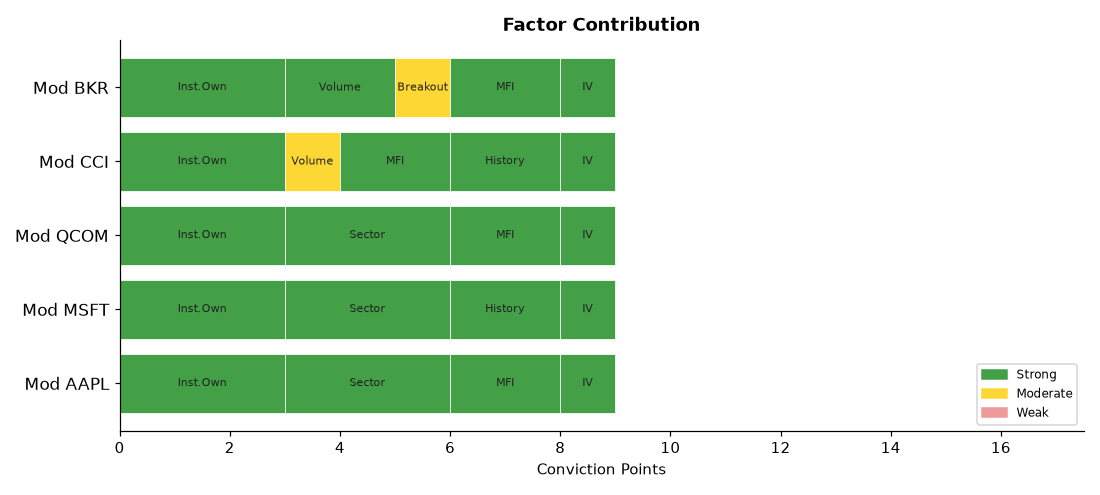
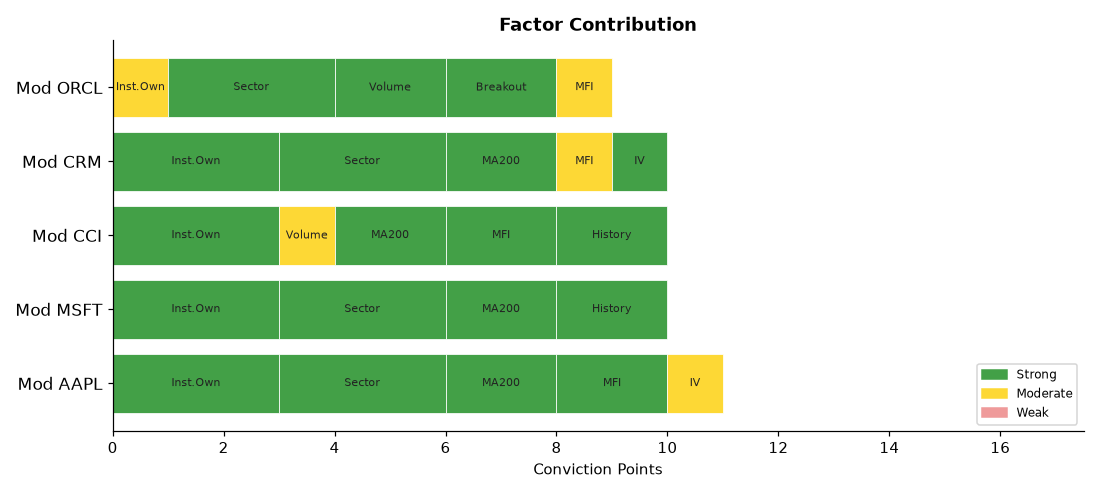
deploy: b7fadf5b06deb90e7ebb92f278722414bdd9750d

diff --git a/index.html b/index.html
@@ -4,7 +4,7 @@
   <meta charset="UTF-8">
   <meta name="viewport" content="width=device-width,initial-scale=1">
   <meta http-equiv="Cache-Control" content="no-cache,no-store,must-revalidate">
-  <title>Stock Breakout Screener — 2026-10-29 01:28</title>
+  <title>Stock Breakout Screener — 2026-10-29 05:08</title>
   <style>
     *{box-sizing:border-box;margin:0;padding:0}
     body{font-family:'Segoe UI',Arial,sans-serif;background:#f0f2f5;
@@ -34,7 +34,7 @@
 
 <div class="hdr">
   <h1>📈 Stock Breakout Screener</h1>
-  <p>Updated: 2026-10-29 01:28 UTC &nbsp;·&nbsp; Phase: Overnight &nbsp;·&nbsp;
+  <p>Updated: 2026-10-29 05:08 UTC &nbsp;·&nbsp; Phase: Pre-Market (before 9:30 AM ET) &nbsp;·&nbsp;
      129 stocks screened &nbsp;·&nbsp; Top 5 by conviction score</p>
 </div>
 
@@ -65,11 +65,11 @@
             <span style="margin-left:auto;background:#1a237e;color:#fff;
                          padding:3px 12px;border-radius:12px;
                          font-size:13px;font-weight:600">
-              9/17
+              10/17
             </span>
           </div>
           <ul style="margin:0;padding-left:18px;font-size:13px;
-                     color:#333;line-height:1.8"><li style="margin:5px 0"><span style="background:#ffebee;color:#b71c1c;padding:2px 7px;border-radius:4px;font-size:11px;">❌</span> Volume: <b>0.7× average</b> — Above-average activity</li><li style="margin:5px 0"><span style="background:#ffebee;color:#b71c1c;padding:2px 7px;border-radius:4px;font-size:11px;">❌</span> Candle: close <b>$nan</b> vs open <b>$nan</b> (+nan%) — regular market close</li><li style="margin:5px 0"><span style="background:#ffebee;color:#b71c1c;padding:2px 7px;border-radius:4px;font-size:11px;">❌</span> 200-Day MA: price <b>$nan</b> vs MA <b>$nan</b> — <b>❌ Below</b> long-term trend</li><li style="margin:5px 0"><span style="background:#e8f5e9;color:#2e7d32;padding:2px 7px;border-radius:4px;font-size:11px;">✅</span> Inst. ownership: <b>66.4%</b> · MFI: <b>64.1</b> · Market cap: <b>$5017.9B</b></li></ul>
+                     color:#333;line-height:1.8"><li style="margin:5px 0"><span style="background:#ffebee;color:#b71c1c;padding:2px 7px;border-radius:4px;font-size:11px;">❌</span> Volume: <b>0.7× average</b> — Above-average activity</li><li style="margin:5px 0"><span style="background:#ffebee;color:#b71c1c;padding:2px 7px;border-radius:4px;font-size:11px;">❌</span> Candle: close <b>$343.83</b> vs open <b>$346.92</b> (-0.9%) — regular market close</li><li style="margin:5px 0"><span style="background:#e8f5e9;color:#2e7d32;padding:2px 7px;border-radius:4px;font-size:11px;">✅</span> 200-Day MA: price <b>$343.83</b> vs MA <b>$315.48</b> — <b>✅ Above</b> long-term trend</li><li style="margin:5px 0"><span style="background:#e8f5e9;color:#2e7d32;padding:2px 7px;border-radius:4px;font-size:11px;">✅</span> Inst. ownership: <b>66.4%</b> · MFI: <b>60.0</b> · Market cap: <b>$5017.9B</b></li></ul>
         </div>
         <div style="background:#fff;border:1px solid #ddd;border-radius:10px;
                     padding:16px 20px;margin-bottom:12px;
@@ -82,11 +82,11 @@
             <span style="margin-left:auto;background:#1a237e;color:#fff;
                          padding:3px 12px;border-radius:12px;
                          font-size:13px;font-weight:600">
-              9/17
+              10/17
             </span>
           </div>
           <ul style="margin:0;padding-left:18px;font-size:13px;
-                     color:#333;line-height:1.8"><li style="margin:5px 0"><span style="background:#ffebee;color:#b71c1c;padding:2px 7px;border-radius:4px;font-size:11px;">❌</span> Volume: <b>0.8× average</b> — Above-average activity</li><li style="margin:5px 0"><span style="background:#ffebee;color:#b71c1c;padding:2px 7px;border-radius:4px;font-size:11px;">❌</span> Candle: close <b>$nan</b> vs open <b>$nan</b> (+nan%) — regular market close</li><li style="margin:5px 0"><span style="background:#ffebee;color:#b71c1c;padding:2px 7px;border-radius:4px;font-size:11px;">❌</span> 200-Day MA: price <b>$nan</b> vs MA <b>$nan</b> — <b>❌ Below</b> long-term trend</li><li style="margin:5px 0"><span style="background:#e8f5e9;color:#2e7d32;padding:2px 7px;border-radius:4px;font-size:11px;">✅</span> Inst. ownership: <b>75.8%</b> · MFI: <b>39.6</b> · Market cap: <b>$3943.0B</b></li><li style="margin:5px 0"><span style="background:#e8f5e9;color:#2e7d32;padding:2px 7px;border-radius:4px;font-size:11px;">✅</span> Last similar breakout: <b>Jul 30, 2026</b> → <b>+10.1%</b> over 10 trading days</li></ul>
+                     color:#333;line-height:1.8"><li style="margin:5px 0"><span style="background:#ffebee;color:#b71c1c;padding:2px 7px;border-radius:4px;font-size:11px;">❌</span> Volume: <b>0.9× average</b> — Above-average activity</li><li style="margin:5px 0"><span style="background:#ffebee;color:#b71c1c;padding:2px 7px;border-radius:4px;font-size:11px;">❌</span> Candle: close <b>$531.01</b> vs open <b>$531.82</b> (-0.2%) — regular market close</li><li style="margin:5px 0"><span style="background:#e8f5e9;color:#2e7d32;padding:2px 7px;border-radius:4px;font-size:11px;">✅</span> 200-Day MA: price <b>$531.01</b> vs MA <b>$453.52</b> — <b>✅ Above</b> long-term trend</li><li style="margin:5px 0"><span style="background:#e8f5e9;color:#2e7d32;padding:2px 7px;border-radius:4px;font-size:11px;">✅</span> Inst. ownership: <b>75.8%</b> · MFI: <b>35.7</b> · Market cap: <b>$3943.0B</b></li><li style="margin:5px 0"><span style="background:#e8f5e9;color:#2e7d32;padding:2px 7px;border-radius:4px;font-size:11px;">✅</span> Last similar breakout: <b>Jul 30, 2026</b> → <b>+10.1%</b> over 10 trading days</li></ul>
         </div>
         <div style="background:#fff;border:1px solid #ddd;border-radius:10px;
                     padding:16px 20px;margin-bottom:12px;
@@ -94,7 +94,41 @@
           <div style="display:flex;align-items:center;gap:10px;
                       flex-wrap:wrap;margin-bottom:10px">
             <span style="font-size:22px">🟡</span>
-            <span style="font-size:19px;font-weight:700">3. QCOM</span>
+            <span style="font-size:19px;font-weight:700">3. CCI</span>
+            <span style="font-size:12px;color:#666">Real Estate</span>
+            <span style="margin-left:auto;background:#1a237e;color:#fff;
+                         padding:3px 12px;border-radius:12px;
+                         font-size:13px;font-weight:600">
+              10/17
+            </span>
+          </div>
+          <ul style="margin:0;padding-left:18px;font-size:13px;
+                     color:#333;line-height:1.8"><li style="margin:5px 0"><span style="background:#fffde7;color:#f57f17;padding:2px 7px;border-radius:4px;font-size:11px;">⚠</span> Volume: <b>1.4× average</b> — Above-average activity</li><li style="margin:5px 0"><span style="background:#ffebee;color:#b71c1c;padding:2px 7px;border-radius:4px;font-size:11px;">❌</span> Candle: close <b>$87.74</b> vs open <b>$87.86</b> (-0.1%) — regular market close</li><li style="margin:5px 0"><span style="background:#e8f5e9;color:#2e7d32;padding:2px 7px;border-radius:4px;font-size:11px;">✅</span> 200-Day MA: price <b>$87.74</b> vs MA <b>$78.98</b> — <b>✅ Above</b> long-term trend</li><li style="margin:5px 0"><span style="background:#e8f5e9;color:#2e7d32;padding:2px 7px;border-radius:4px;font-size:11px;">✅</span> Inst. ownership: <b>101.6%</b> · MFI: <b>64.2</b> · Market cap: <b>$37.3B</b></li><li style="margin:5px 0"><span style="background:#e8f5e9;color:#2e7d32;padding:2px 7px;border-radius:4px;font-size:11px;">✅</span> Last similar breakout: <b>Oct 09, 2026</b> → <b>+7.9%</b> over 10 trading days</li></ul>
+        </div>
+        <div style="background:#fff;border:1px solid #ddd;border-radius:10px;
+                    padding:16px 20px;margin-bottom:12px;
+                    box-shadow:0 2px 6px rgba(0,0,0,.07)">
+          <div style="display:flex;align-items:center;gap:10px;
+                      flex-wrap:wrap;margin-bottom:10px">
+            <span style="font-size:22px">🟡</span>
+            <span style="font-size:19px;font-weight:700">4. CRM</span>
+            <span style="font-size:12px;color:#666">Technology</span>
+            <span style="margin-left:auto;background:#1a237e;color:#fff;
+                         padding:3px 12px;border-radius:12px;
+                         font-size:13px;font-weight:600">
+              10/17
+            </span>
+          </div>
+          <ul style="margin:0;padding-left:18px;font-size:13px;
+                     color:#333;line-height:1.8"><li style="margin:5px 0"><span style="background:#ffebee;color:#b71c1c;padding:2px 7px;border-radius:4px;font-size:11px;">❌</span> Volume: <b>0.5× average</b> — Above-average activity</li><li style="margin:5px 0"><span style="background:#ffebee;color:#b71c1c;padding:2px 7px;border-radius:4px;font-size:11px;">❌</span> Candle: close <b>$242.11</b> vs open <b>$237.52</b> (+1.9%) — regular market close</li><li style="margin:5px 0"><span style="background:#e8f5e9;color:#2e7d32;padding:2px 7px;border-radius:4px;font-size:11px;">✅</span> 200-Day MA: price <b>$242.11</b> vs MA <b>$200.02</b> — <b>✅ Above</b> long-term trend</li><li style="margin:5px 0"><span style="background:#e8f5e9;color:#2e7d32;padding:2px 7px;border-radius:4px;font-size:11px;">✅</span> Inst. ownership: <b>87.2%</b> · MFI: <b>51.2</b> · Market cap: <b>$199.3B</b></li><li style="margin:5px 0"><span style="background:#ffebee;color:#b71c1c;padding:2px 7px;border-radius:4px;font-size:11px;">❌</span> Last similar breakout: <b>Aug 27, 2026</b> → <b>-1.7%</b> over 10 trading days</li></ul>
+        </div>
+        <div style="background:#fff;border:1px solid #ddd;border-radius:10px;
+                    padding:16px 20px;margin-bottom:12px;
+                    box-shadow:0 2px 6px rgba(0,0,0,.07)">
+          <div style="display:flex;align-items:center;gap:10px;
+                      flex-wrap:wrap;margin-bottom:10px">
+            <span style="font-size:22px">🟡</span>
+            <span style="font-size:19px;font-weight:700">5. ORCL</span>
             <span style="font-size:12px;color:#666">Technology</span>
             <span style="margin-left:auto;background:#1a237e;color:#fff;
                          padding:3px 12px;border-radius:12px;
@@ -103,41 +137,7 @@
             </span>
           </div>
           <ul style="margin:0;padding-left:18px;font-size:13px;
-                     color:#333;line-height:1.8"><li style="margin:5px 0"><span style="background:#ffebee;color:#b71c1c;padding:2px 7px;border-radius:4px;font-size:11px;">❌</span> Volume: <b>0.5× average</b> — Above-average activity</li><li style="margin:5px 0"><span style="background:#ffebee;color:#b71c1c;padding:2px 7px;border-radius:4px;font-size:11px;">❌</span> Candle: close <b>$nan</b> vs open <b>$nan</b> (+nan%) — regular market close</li><li style="margin:5px 0"><span style="background:#ffebee;color:#b71c1c;padding:2px 7px;border-radius:4px;font-size:11px;">❌</span> 200-Day MA: price <b>$nan</b> vs MA <b>$nan</b> — <b>❌ Below</b> long-term trend</li><li style="margin:5px 0"><span style="background:#e8f5e9;color:#2e7d32;padding:2px 7px;border-radius:4px;font-size:11px;">✅</span> Inst. ownership: <b>83.5%</b> · MFI: <b>60.3</b> · Market cap: <b>$195.4B</b></li></ul>
-        </div>
-        <div style="background:#fff;border:1px solid #ddd;border-radius:10px;
-                    padding:16px 20px;margin-bottom:12px;
-                    box-shadow:0 2px 6px rgba(0,0,0,.07)">
-          <div style="display:flex;align-items:center;gap:10px;
-                      flex-wrap:wrap;margin-bottom:10px">
-            <span style="font-size:22px">🟡</span>
-            <span style="font-size:19px;font-weight:700">4. CCI</span>
-            <span style="font-size:12px;color:#666">Real Estate</span>
-            <span style="margin-left:auto;background:#1a237e;color:#fff;
-                         padding:3px 12px;border-radius:12px;
-                         font-size:13px;font-weight:600">
-              9/17
-            </span>
-          </div>
-          <ul style="margin:0;padding-left:18px;font-size:13px;
-                     color:#333;line-height:1.8"><li style="margin:5px 0"><span style="background:#fffde7;color:#f57f17;padding:2px 7px;border-radius:4px;font-size:11px;">⚠</span> Volume: <b>1.4× average</b> — Above-average activity</li><li style="margin:5px 0"><span style="background:#ffebee;color:#b71c1c;padding:2px 7px;border-radius:4px;font-size:11px;">❌</span> Candle: close <b>$nan</b> vs open <b>$nan</b> (+nan%) — regular market close</li><li style="margin:5px 0"><span style="background:#ffebee;color:#b71c1c;padding:2px 7px;border-radius:4px;font-size:11px;">❌</span> 200-Day MA: price <b>$nan</b> vs MA <b>$nan</b> — <b>❌ Below</b> long-term trend</li><li style="margin:5px 0"><span style="background:#e8f5e9;color:#2e7d32;padding:2px 7px;border-radius:4px;font-size:11px;">✅</span> Inst. ownership: <b>101.6%</b> · MFI: <b>68.4</b> · Market cap: <b>$37.3B</b></li><li style="margin:5px 0"><span style="background:#e8f5e9;color:#2e7d32;padding:2px 7px;border-radius:4px;font-size:11px;">✅</span> Last similar breakout: <b>Oct 09, 2026</b> → <b>+7.9%</b> over 10 trading days</li></ul>
-        </div>
-        <div style="background:#fff;border:1px solid #ddd;border-radius:10px;
-                    padding:16px 20px;margin-bottom:12px;
-                    box-shadow:0 2px 6px rgba(0,0,0,.07)">
-          <div style="display:flex;align-items:center;gap:10px;
-                      flex-wrap:wrap;margin-bottom:10px">
-            <span style="font-size:22px">🟡</span>
-            <span style="font-size:19px;font-weight:700">5. BKR</span>
-            <span style="font-size:12px;color:#666">Energy</span>
-            <span style="margin-left:auto;background:#1a237e;color:#fff;
-                         padding:3px 12px;border-radius:12px;
-                         font-size:13px;font-weight:600">
-              9/17
-            </span>
-          </div>
-          <ul style="margin:0;padding-left:18px;font-size:13px;
-                     color:#333;line-height:1.8"><li style="margin:5px 0"><span style="background:#e8f5e9;color:#2e7d32;padding:2px 7px;border-radius:4px;font-size:11px;">✅</span> Volume: <b>2.2× average</b> — 🔥 Strong unusual activity</li><li style="margin:5px 0"><span style="background:#fffde7;color:#f57f17;padding:2px 7px;border-radius:4px;font-size:11px;">⚠</span> Candle: close <b>$nan</b> vs open <b>$nan</b> (+nan%) — regular market close</li><li style="margin:5px 0"><span style="background:#ffebee;color:#b71c1c;padding:2px 7px;border-radius:4px;font-size:11px;">❌</span> 200-Day MA: price <b>$nan</b> vs MA <b>$nan</b> — <b>❌ Below</b> long-term trend</li><li style="margin:5px 0"><span style="background:#e8f5e9;color:#2e7d32;padding:2px 7px;border-radius:4px;font-size:11px;">✅</span> Inst. ownership: <b>100.2%</b> · MFI: <b>61.5</b> · Market cap: <b>$54.3B</b></li></ul>
+                     color:#333;line-height:1.8"><li style="margin:5px 0"><span style="background:#e8f5e9;color:#2e7d32;padding:2px 7px;border-radius:4px;font-size:11px;">✅</span> Volume: <b>2.7× average</b> — 🔥 Strong unusual activity</li><li style="margin:5px 0"><span style="background:#e8f5e9;color:#2e7d32;padding:2px 7px;border-radius:4px;font-size:11px;">✅</span> Candle: close <b>$144.54</b> vs open <b>$131.32</b> (+10.1%) — regular market close</li><li style="margin:5px 0"><span style="background:#ffebee;color:#b71c1c;padding:2px 7px;border-radius:4px;font-size:11px;">❌</span> 200-Day MA: price <b>$144.54</b> vs MA <b>$155.88</b> — <b>❌ Below</b> long-term trend</li><li style="margin:5px 0"><span style="background:#fffde7;color:#f57f17;padding:2px 7px;border-radius:4px;font-size:11px;">⚠</span> Inst. ownership: <b>43.4%</b> · MFI: <b>51.1</b> · Market cap: <b>$438.2B</b></li></ul>
         </div>
 
 
@@ -170,88 +170,88 @@
           <td style="font-weight:700;text-align:left;padding-left:10px">
             🟡 AAPL</td>
           <td style="background:#ffcdd2">0.7×</td>
-          <td style="background:#ffcdd2">+nan%</td>
-          <td style="background:#ffcdd2">
-            ▼ Below</td>
+          <td style="background:#ffcdd2">-0.9%</td>
+          <td style="background:#c8e6c9">
+            ▲ Above</td>
           <td style="background:#c8e6c9">
             66.4%</td>
           <td style="background:#c8e6c9">
-            64.1</td>
+            60.0</td>
           <td style="background:#c8e6c9">Technology</td>
-          <td style="background:#c8e6c9">
-            173.8%</td>
+          <td style="background:#fff9c4">
+            15.8%</td>
           <td style="background:#ffcdd2">
             N/A</td>
-          <td style="font-weight:800;font-size:15px">9/17</td>
+          <td style="font-weight:800;font-size:15px">10/17</td>
         </tr>
         <tr>
           <td style="font-weight:700;text-align:left;padding-left:10px">
             🟡 MSFT</td>
-          <td style="background:#ffcdd2">0.8×</td>
-          <td style="background:#ffcdd2">+nan%</td>
-          <td style="background:#ffcdd2">
-            ▼ Below</td>
+          <td style="background:#ffcdd2">0.9×</td>
+          <td style="background:#ffcdd2">-0.2%</td>
+          <td style="background:#c8e6c9">
+            ▲ Above</td>
           <td style="background:#c8e6c9">
             75.8%</td>
           <td style="background:#ffcdd2">
-            39.6</td>
+            35.7</td>
           <td style="background:#c8e6c9">Technology</td>
-          <td style="background:#c8e6c9">
-            150.8%</td>
+          <td style="background:#ffcdd2">
+            9.6%</td>
           <td style="background:#c8e6c9">
             +10.1%</td>
-          <td style="font-weight:800;font-size:15px">9/17</td>
-        </tr>
-        <tr>
-          <td style="font-weight:700;text-align:left;padding-left:10px">
-            🟡 QCOM</td>
-          <td style="background:#ffcdd2">0.5×</td>
-          <td style="background:#ffcdd2">+nan%</td>
-          <td style="background:#ffcdd2">
-            ▼ Below</td>
-          <td style="background:#c8e6c9">
-            83.5%</td>
-          <td style="background:#c8e6c9">
-            60.3</td>
-          <td style="background:#c8e6c9">Technology</td>
-          <td style="background:#c8e6c9">
-            138.1%</td>
-          <td style="background:#ffcdd2">
-            N/A</td>
-          <td style="font-weight:800;font-size:15px">9/17</td>
+          <td style="font-weight:800;font-size:15px">10/17</td>
         </tr>
         <tr>
           <td style="font-weight:700;text-align:left;padding-left:10px">
             🟡 CCI</td>
           <td style="background:#fff9c4">1.4×</td>
-          <td style="background:#ffcdd2">+nan%</td>
-          <td style="background:#ffcdd2">
-            ▼ Below</td>
+          <td style="background:#ffcdd2">-0.1%</td>
+          <td style="background:#c8e6c9">
+            ▲ Above</td>
           <td style="background:#c8e6c9">
             101.6%</td>
           <td style="background:#c8e6c9">
-            68.4</td>
+            64.2</td>
           <td style="background:#ffcdd2">Real Estate</td>
-          <td style="background:#c8e6c9">
-            63.3%</td>
+          <td style="background:#ffcdd2">
+            1.9%</td>
           <td style="background:#c8e6c9">
             +7.9%</td>
-          <td style="font-weight:800;font-size:15px">9/17</td>
+          <td style="font-weight:800;font-size:15px">10/17</td>
         </tr>
         <tr>
           <td style="font-weight:700;text-align:left;padding-left:10px">
-            🟡 BKR</td>
-          <td style="background:#c8e6c9">2.2×</td>
-          <td style="background:#fff9c4">+nan%</td>
+            🟡 CRM</td>
+          <td style="background:#ffcdd2">0.5×</td>
+          <td style="background:#ffcdd2">+1.9%</td>
+          <td style="background:#c8e6c9">
+            ▲ Above</td>
+          <td style="background:#c8e6c9">
+            87.2%</td>
+          <td style="background:#fff9c4">
+            51.2</td>
+          <td style="background:#c8e6c9">Technology</td>
+          <td style="background:#c8e6c9">
+            40.2%</td>
+          <td style="background:#ffcdd2">
+            -1.7%</td>
+          <td style="font-weight:800;font-size:15px">10/17</td>
+        </tr>
+        <tr>
+          <td style="font-weight:700;text-align:left;padding-left:10px">
+            🟡 ORCL</td>
+          <td style="background:#c8e6c9">2.7×</td>
+          <td style="background:#c8e6c9">+10.1%</td>
           <td style="background:#ffcdd2">
             ▼ Below</td>
-          <td style="background:#c8e6c9">
-            100.2%</td>
-          <td style="background:#c8e6c9">
-            61.5</td>
-          <td style="background:#ffcdd2">Energy</td>
-          <td style="background:#c8e6c9">
-            58.5%</td>
+          <td style="background:#fff9c4">
+            43.4%</td>
+          <td style="background:#fff9c4">
+            51.1</td>
+          <td style="background:#c8e6c9">Technology</td>
+          <td style="background:#ffcdd2">
+            14.7%</td>
           <td style="background:#ffcdd2">
             N/A</td>
           <td style="font-weight:800;font-size:15px">9/17</td>
@@ -278,57 +278,57 @@
         <tr>
           <td style="text-align:left;padding-left:10px;font-weight:600">
             #1 Technology</td>
-          <td style="background:#ffebee;color:#c62828;font-weight:700">+nan%</td>
+          <td style="background:#e8f5e9;color:#2e7d32;font-weight:700">+0.80%</td>
         </tr>
         <tr>
           <td style="text-align:left;padding-left:10px;font-weight:600">
-            #2 Healthcare</td>
-          <td style="background:#ffebee;color:#c62828;font-weight:700">+nan%</td>
+            #2 Financials</td>
+          <td style="background:#e8f5e9;color:#2e7d32;font-weight:700">+0.45%</td>
         </tr>
         <tr>
           <td style="text-align:left;padding-left:10px;font-weight:600">
-            #3 Financials</td>
-          <td style="background:#ffebee;color:#c62828;font-weight:700">+nan%</td>
+            #3 Energy</td>
+          <td style="background:#e8f5e9;color:#2e7d32;font-weight:700">+0.35%</td>
         </tr>
         <tr>
           <td style="text-align:left;padding-left:10px;font-weight:600">
             #4 Industrials</td>
-          <td style="background:#ffebee;color:#c62828;font-weight:700">+nan%</td>
+          <td style="background:#e8f5e9;color:#2e7d32;font-weight:700">+0.34%</td>
         </tr>
         <tr>
           <td style="text-align:left;padding-left:10px;font-weight:600">
-            #5 Energy</td>
-          <td style="background:#ffebee;color:#c62828;font-weight:700">+nan%</td>
+            #5 Healthcare</td>
+          <td style="background:#e8f5e9;color:#2e7d32;font-weight:700">+0.30%</td>
         </tr>
         <tr>
           <td style="text-align:left;padding-left:10px;font-weight:600">
-            #6 Consumer Disc</td>
-          <td style="background:#ffebee;color:#c62828;font-weight:700">+nan%</td>
+            #6 Materials</td>
+          <td style="background:#e8f5e9;color:#2e7d32;font-weight:700">+0.15%</td>
         </tr>
         <tr>
           <td style="text-align:left;padding-left:10px;font-weight:600">
-            #7 Consumer Stpl</td>
-          <td style="background:#ffebee;color:#c62828;font-weight:700">+nan%</td>
+            #7 Consumer Disc</td>
+          <td style="background:#ffebee;color:#c62828;font-weight:700">-0.10%</td>
         </tr>
         <tr>
           <td style="text-align:left;padding-left:10px;font-weight:600">
-            #8 Materials</td>
-          <td style="background:#ffebee;color:#c62828;font-weight:700">+nan%</td>
+            #8 Consumer Stpl</td>
+          <td style="background:#ffebee;color:#c62828;font-weight:700">-0.36%</td>
         </tr>
         <tr>
           <td style="text-align:left;padding-left:10px;font-weight:600">
-            #9 Real Estate</td>
-          <td style="background:#ffebee;color:#c62828;font-weight:700">+nan%</td>
+            #9 Comm. Services</td>
+          <td style="background:#ffebee;color:#c62828;font-weight:700">-0.42%</td>
         </tr>
         <tr>
           <td style="text-align:left;padding-left:10px;font-weight:600">
-            #10 Utilities</td>
-          <td style="background:#ffebee;color:#c62828;font-weight:700">+nan%</td>
+            #10 Real Estate</td>
+          <td style="background:#ffebee;color:#c62828;font-weight:700">-0.73%</td>
         </tr>
         <tr>
           <td style="text-align:left;padding-left:10px;font-weight:600">
-            #11 Comm. Services</td>
-          <td style="background:#ffebee;color:#c62828;font-weight:700">+nan%</td>
+            #11 Utilities</td>
+          <td style="background:#ffebee;color:#c62828;font-weight:700">-0.84%</td>
         </tr>
     </table>
   </div>
@@ -367,7 +367,7 @@
         <li><b>Scoring weights:</b>
             Inst.Own(3) · Sector(3) · Volume(2) · Breakout(2) ·
             MA200(2) · MFI(2) · History(2) · IV(1) = 17pts max</li>
-        <li><b>Run time:</b> 2026-10-29 01:28 UTC — Market phase: Overnight</li>
+        <li><b>Run time:</b> 2026-10-29 05:08 UTC — Market phase: Pre-Market (before 9:30 AM ET)</li>
       </ul>
     </div>
 
